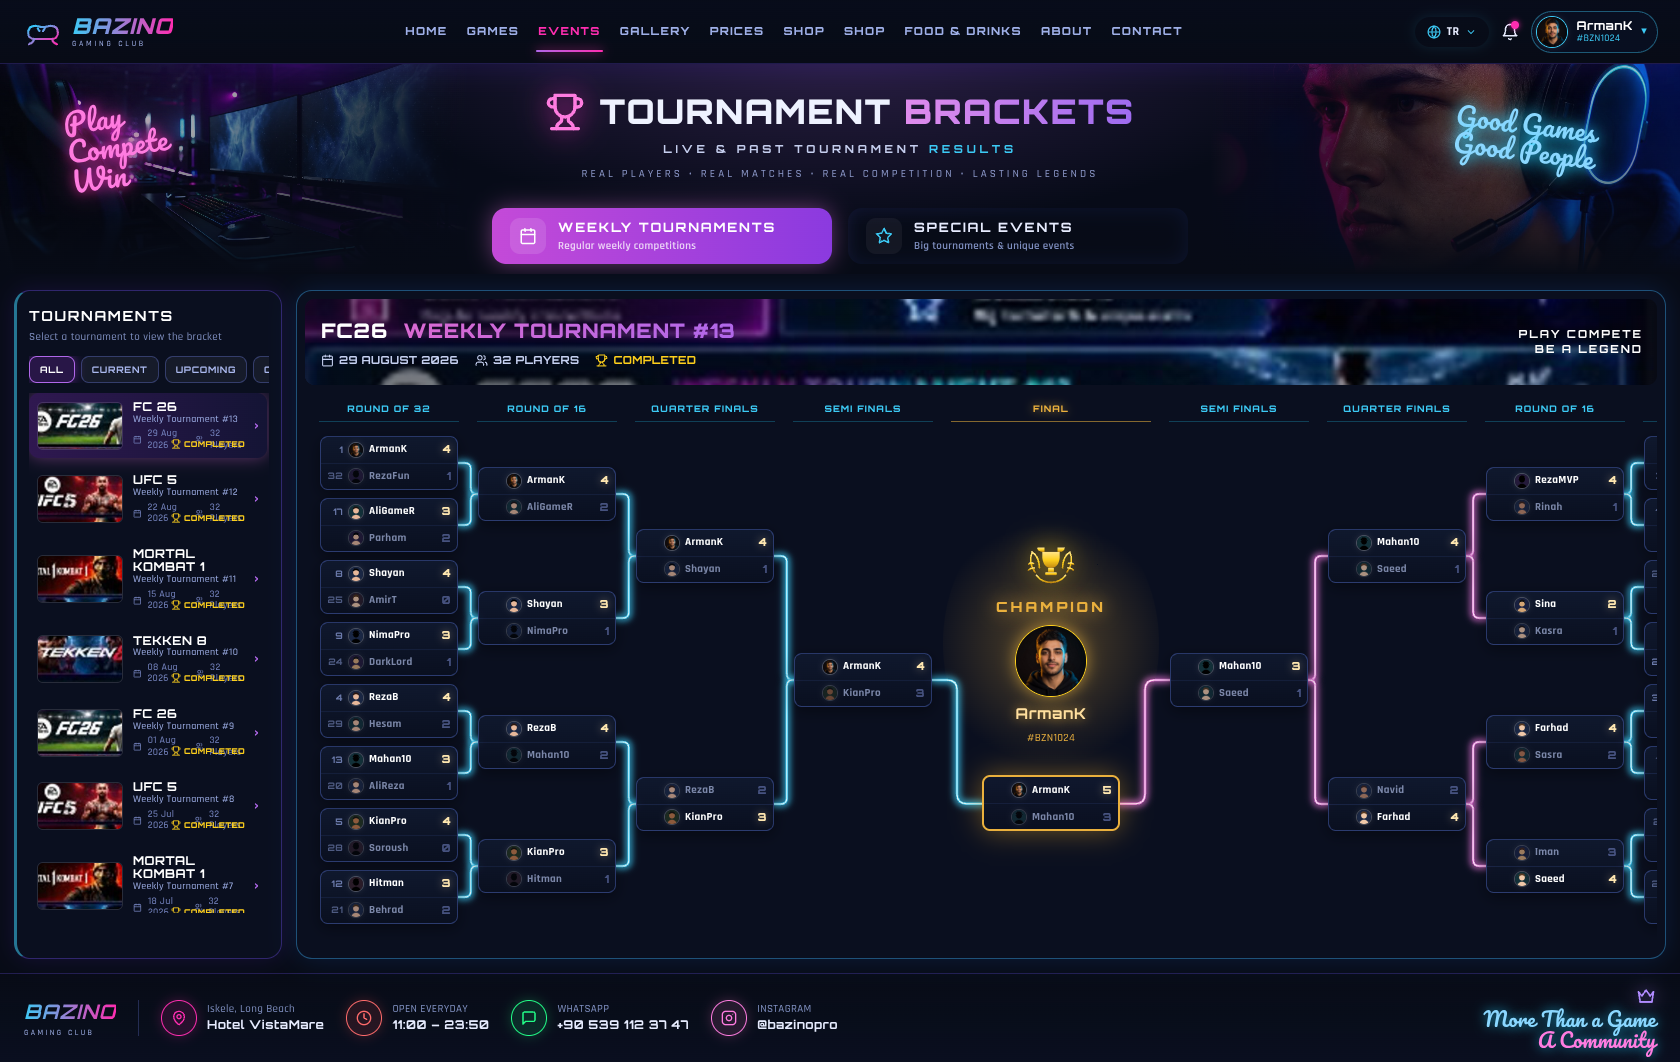
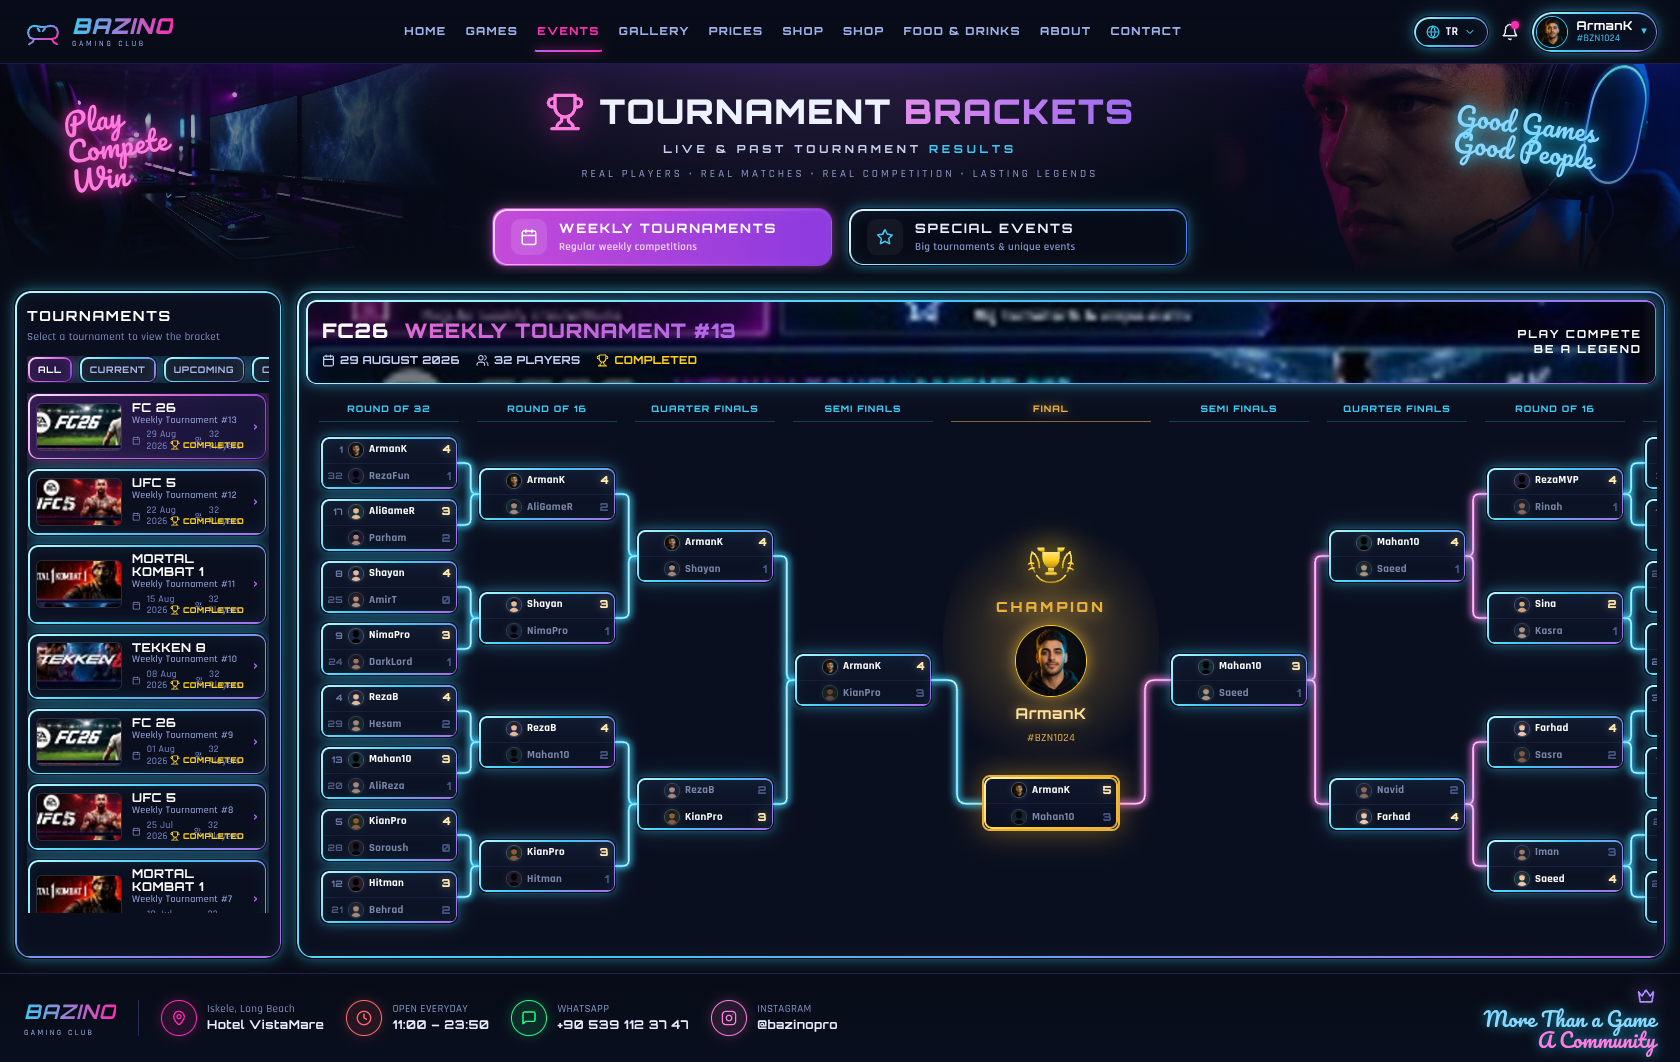
Add shared neon gradient border class for all Hub cards and boxes.
Introduce hub-neon-box (cyan/magenta/gold/green/purple) and apply it to match cards, game list, panel, sidebar, tabs, and chips so the template keeps one border language.

diff --git a/hub/design-system/hub.css b/hub/design-system/hub.css
@@ -1,5 +1,6 @@
 @import "./tokens.css";
 @import "./neon-wire.css";
+@import "./neon-box.css";
 
 /* ═══════════════════════════════════════════════════════════════════
    HUB COMPONENT STYLES — header, hero, tabs, cards, champion, footer.
@@ -49,10 +50,8 @@
 .hub-chip {
   display: inline-flex; align-items: center; gap: 6px;
   background: rgba(8, 16, 36, 0.7);
-  border: 1px solid rgba(60, 202, 245, 0.45);
   color: #cdd8ff; border-radius: var(--hub-radius-pill);
   padding: 6px 12px; font-size: 12px; font-weight: 700; cursor: pointer;
-  box-shadow: 0 0 12px rgba(60, 202, 245, 0.12);
 }
 .hub-chip svg { color: var(--hub-cyan); }
 .hub-bell { position: relative; background: none; border: 0; cursor: pointer; color: var(--hub-cyan); }
@@ -63,7 +62,6 @@
 .hub-user {
   display: flex; align-items: center; gap: 8px; cursor: pointer;
   padding: 4px 10px 4px 4px; border-radius: var(--hub-radius-pill);
-  border: 1px solid rgba(60, 202, 245, 0.4);
   background: rgba(8, 16, 36, 0.7);
 }
 .hub-user i { color: var(--hub-cyan); font-style: normal; font-size: 11px; }
@@ -141,8 +139,6 @@
   display: flex; align-items: center; gap: 12px; min-width: 340px; text-align: left;
   padding: 10px 18px; border-radius: 14px; cursor: pointer;
   background: rgba(10, 16, 36, 0.82); color: #cdd8ff;
-  border: 1.5px solid rgba(90, 140, 230, 0.4);
-  box-shadow: 0 0 18px rgba(60, 90, 220, 0.12) inset;
   transition: all 0.18s;
 }
 .hub-tab-ic {
@@ -154,16 +150,12 @@
 .hub-tab-tx b { font-size: 13px; letter-spacing: 0.14em; }
 .hub-tab-tx small { font-size: 11px; color: #7f8fc0; font-family: var(--hub-font-body); font-weight: 600; }
 .hub-tab.is-magenta.is-on {
-  border-color: transparent;
   background: linear-gradient(90deg, #c44ad8, #8b3adf);
-  box-shadow: 0 0 22px rgba(218, 106, 210, 0.45);
   color: #fff;
 }
 .hub-tab.is-magenta.is-on .hub-tab-tx small { color: rgba(255, 255, 255, 0.78); }
 .hub-tab.is-magenta .hub-tab-ic { color: #fff; background: rgba(255, 255, 255, 0.12); }
 .hub-tab.is-cyan.is-on {
-  border-color: var(--hub-cyan);
-  box-shadow: 0 0 22px rgba(60, 202, 245, 0.35);
   background: linear-gradient(90deg, rgba(60, 202, 245, 0.18), rgba(40, 90, 255, 0.08));
 }
 .hub-tab.is-cyan .hub-tab-ic { color: var(--hub-cyan); }
@@ -172,9 +164,7 @@
 .hub-body { display: flex; gap: 14px; padding: 16px 14px 14px; align-items: stretch; }
 .hub-side {
   width: 268px; flex-shrink: 0; background: var(--hub-panel);
-  border: 1px solid rgba(120, 80, 255, 0.35); border-left: 3px solid rgba(60, 202, 245, 0.55);
   border-radius: var(--hub-radius-lg); padding: 14px 12px;
-  box-shadow: 0 0 22px rgba(110, 50, 255, 0.14);
 }
 .hub-side h3 { margin: 0; font-size: 14px; letter-spacing: 0.12em; color: #fff; }
 .hub-side-note { font-size: 11px; color: var(--hub-muted); margin: 3px 0 10px; }
@@ -182,19 +172,24 @@
 .hub-filters button {
   font-family: var(--hub-font-display); font-size: 9px; font-weight: 700; letter-spacing: 0.08em;
   padding: 6px 10px; border-radius: 8px; cursor: pointer; white-space: nowrap;
-  background: rgba(255, 255, 255, 0.05); border: 1px solid rgba(120, 140, 255, 0.3); color: #aab8ee;
+  background: rgba(255, 255, 255, 0.05); color: #aab8ee;
 }
-.hub-filters button.is-on { border-color: var(--hub-purple); color: #fff; box-shadow: 0 0 12px rgba(180, 56, 255, 0.45); background: rgba(180, 56, 255, 0.18); }
-.hub-filters button.is-on.is-green { border-color: var(--hub-green); color: #04140b; background: var(--hub-green); box-shadow: 0 0 14px rgba(34, 255, 136, 0.55); }
+.hub-filters button.is-on { color: #fff; background: rgba(180, 56, 255, 0.18); }
+.hub-filters button.is-on.is-green { color: #04140b; background: var(--hub-green); }
 
 .hub-game-list { display: flex; flex-direction: column; gap: 8px; max-height: 520px; overflow-y: auto; padding-right: 2px; }
 .hub-game {
   position: relative; display: flex; align-items: center; gap: 10px; text-align: left;
   background: linear-gradient(90deg, rgba(20, 28, 52, 0.9), rgba(13, 20, 40, 0.7));
-  border: 1px solid rgba(90, 120, 220, 0.28); border-radius: 10px; padding: 7px 8px; cursor: pointer;
+  border-radius: 10px; padding: 7px 8px; cursor: pointer;
 }
-.hub-game:hover { border-color: rgba(180, 120, 255, 0.5); }
-.hub-game.is-on { border-color: var(--hub-magenta); box-shadow: 0 0 16px rgba(218, 106, 210, 0.4); background: linear-gradient(90deg, rgba(180, 56, 255, 0.22), rgba(60, 40, 140, 0.2)); }
+.hub-game:hover {
+  --hub-box-from: #ffe1fb;
+  --hub-box-mid: #da6ad2;
+  --hub-box-to: #7a3adf;
+  --hub-box-glow: #da6ad2;
+}
+.hub-game.is-on { background: linear-gradient(90deg, rgba(180, 56, 255, 0.22), rgba(60, 40, 140, 0.2)); }
 .hub-game img { width: 86px; height: 48px; object-fit: cover; border-radius: 6px; flex-shrink: 0; border: 1px solid rgba(255, 255, 255, 0.12); }
 .hub-game-meta { display: flex; flex-direction: column; line-height: 1.15; min-width: 0; flex: 1; padding-right: 14px; }
 .hub-game-meta b { font-size: 12px; color: #fff; }
@@ -210,8 +205,8 @@
 /* ── PANEL ───────────────────────────────────────────────────────── */
 .hub-panel {
   flex: 1; min-width: 0; background: var(--hub-panel);
-  border: 1px solid rgba(60, 180, 255, 0.4); border-radius: var(--hub-radius-lg);
-  padding: 8px; box-shadow: 0 0 26px rgba(40, 120, 255, 0.16);
+  border-radius: var(--hub-radius-lg);
+  padding: 8px;
   display: flex; flex-direction: column;
 }
 .hub-panel-banner {

diff --git a/hub/design-system/neon-box.css b/hub/design-system/neon-box.css
@@ -1,0 +1,118 @@
+/* ═══════════════════════════════════════════════════════════════════
+   Neon gradient border — shared by every Hub card / box / chip.
+   Usage: class="hub-neon-box" plus optional tone:
+     hub-neon-box--cyan | --magenta | --gold | --green | --purple
+   Existing primitives (.hub-mcard, .hub-game, .hub-panel, …) inherit
+   this automatically so new pages stay consistent.
+   ═══════════════════════════════════════════════════════════════════ */
+
+.hub-page .hub-neon-box,
+.hub-page .hub-mcard,
+.hub-page .hub-game,
+.hub-page .hub-panel,
+.hub-page .hub-side,
+.hub-page .hub-tab,
+.hub-page .hub-chip,
+.hub-page .hub-user,
+.hub-page .hub-filters button,
+.hub-page .hub-panel-banner {
+  --hub-box-from: #b8fbff;
+  --hub-box-mid: #3ccaf5;
+  --hub-box-to: #b067e9;
+  --hub-box-glow: #3ccaf5;
+  --hub-box-bw: 1.5px;
+  position: relative;
+  isolation: isolate;
+  border: var(--hub-box-bw) solid transparent;
+  background-clip: padding-box;
+  box-shadow:
+    0 0 10px color-mix(in srgb, var(--hub-box-glow) 42%, transparent),
+    0 0 22px color-mix(in srgb, var(--hub-box-glow) 16%, transparent),
+    inset 0 0 14px color-mix(in srgb, var(--hub-box-glow) 11%, transparent);
+}
+
+.hub-page .hub-neon-box::before,
+.hub-page .hub-mcard::before,
+.hub-page .hub-game::before,
+.hub-page .hub-panel::before,
+.hub-page .hub-side::before,
+.hub-page .hub-tab::before,
+.hub-page .hub-chip::before,
+.hub-page .hub-user::before,
+.hub-page .hub-filters button::before,
+.hub-page .hub-panel-banner::before {
+  content: "";
+  position: absolute;
+  inset: 0;
+  border-radius: inherit;
+  padding: var(--hub-box-bw);
+  background: linear-gradient(
+    135deg,
+    var(--hub-box-from) 0%,
+    var(--hub-box-mid) 45%,
+    var(--hub-box-to) 100%
+  );
+  -webkit-mask:
+    linear-gradient(#000 0 0) content-box,
+    linear-gradient(#000 0 0);
+  -webkit-mask-composite: xor;
+  mask-composite: exclude;
+  pointer-events: none;
+  z-index: 2;
+}
+
+.hub-neon-box--cyan,
+.hub-tab.is-cyan {
+  --hub-box-from: #e7fcff;
+  --hub-box-mid: #3ccaf5;
+  --hub-box-to: #4a7dff;
+  --hub-box-glow: #3ccaf5;
+}
+
+.hub-neon-box--magenta,
+.hub-game.is-on,
+.hub-tab.is-magenta.is-on,
+.hub-filters button.is-on:not(.is-green) {
+  --hub-box-from: #ffe1fb;
+  --hub-box-mid: #da6ad2;
+  --hub-box-to: #7a3adf;
+  --hub-box-glow: #da6ad2;
+}
+
+.hub-neon-box--gold,
+.hub-mcard.is-gold {
+  --hub-box-from: #fff6c4;
+  --hub-box-mid: #fdcf1c;
+  --hub-box-to: #eab03d;
+  --hub-box-glow: #eab03d;
+  --hub-box-bw: 2px;
+}
+
+.hub-neon-box--green,
+.hub-filters button.is-on.is-green {
+  --hub-box-from: #e9ffe8;
+  --hub-box-mid: #22ff88;
+  --hub-box-to: #12b86a;
+  --hub-box-glow: #22ff88;
+}
+
+.hub-neon-box--purple,
+.hub-side {
+  --hub-box-from: #c9b8ff;
+  --hub-box-mid: #b067e9;
+  --hub-box-to: #3ccaf5;
+  --hub-box-glow: #b067e9;
+}
+
+.hub-panel {
+  --hub-box-from: #b8fbff;
+  --hub-box-mid: #3ccaf5;
+  --hub-box-to: #68a7e6;
+  --hub-box-glow: #3ccaf5;
+  --hub-box-bw: 1.6px;
+}
+
+.hub-mcard { --hub-box-bw: 1.35px; }
+.hub-chip,
+.hub-user,
+.hub-filters button { --hub-box-bw: 1.25px; }

diff --git a/hub/design-system/KitPage.tsx b/hub/design-system/KitPage.tsx
@@ -3,10 +3,10 @@ import { HubPage, MatchCard, NeonLink, NeonWireLayer, WirePort } from "./index";
 function Box({ id, label, tone }: { id: string; label: string; tone: string }) {
   return (
     <WirePort id={id}>
-      <div style={{
+      <div className="hub-neon-box" style={{
         width: 120, height: 52, borderRadius: 10, display: "flex", alignItems: "center", justifyContent: "center",
-        border: `1.5px solid ${tone}`, color: "#e7ecff", fontFamily: "Orbitron, sans-serif", fontSize: 11,
-        background: "rgba(12,18,36,0.9)", boxShadow: `0 0 16px ${tone}55`,
+        color: "#e7ecff", fontFamily: "Orbitron, sans-serif", fontSize: 11,
+        background: "rgba(12,18,36,0.9)",
       }}>{label}</div>
     </WirePort>
   );

diff --git a/hub/design-system/README.md b/hub/design-system/README.md
@@ -20,6 +20,20 @@ hub/design-system/
 
 ---
 
+## Neon box — بوردر گرادیان نئون کارتها
+
+کلاس استاندارد همهٔ کارت/باکس/چیپ:
+
+```html
+<div class="hub-neon-box hub-neon-box--cyan">…</div>
+```
+
+تونها: `--cyan` `--magenta` `--gold` `--green` `--purple`
+
+`.hub-mcard` / `.hub-game` / `.hub-panel` / `.hub-side` / `.hub-tab` این بوردر را خودکار میگیرند. صفحهٔ جدید فقط `hub-neon-box` بگذارد.
+
+---
+
 ## NeonWire — خطوط اتصال نئونی
 
 سه شکل:
